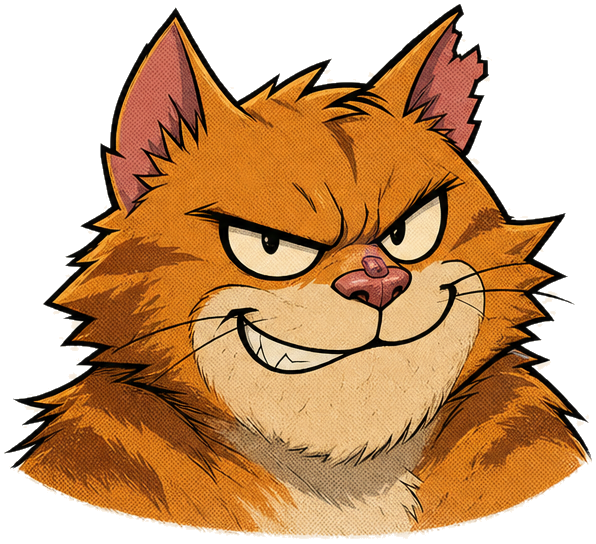
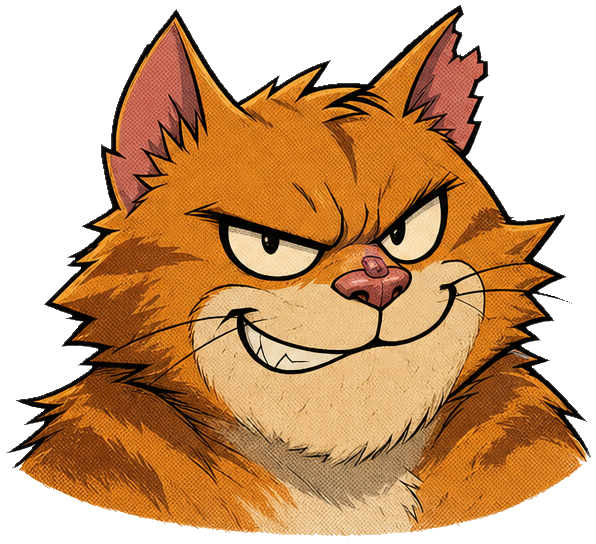
Card busts: remove paper-background fringe along the cut

diff --git a/Tools/import_ui.py b/Tools/import_ui.py
@@ -110,6 +110,23 @@ def items(alpha, merge=18, min_pixels=3000):
     return ordered, labels
 
 
+def defringe(img, passes=6):
+    """Eats the light, unsaturated leftovers of a paper background along the cut edge, then softens the edge."""
+    a = np.array(img).astype(np.int16)
+    rgb, alpha = a[..., :3], a[..., 3]
+    light = (rgb.min(axis=2) > 175) & (rgb.max(axis=2) - rgb.min(axis=2) < 45)
+    for _ in range(passes):
+        clear = alpha < 40
+        edge = ndimage.binary_dilation(clear) & ~clear
+        eat = edge & light
+        if not eat.any():
+            break
+        alpha[eat] = 0
+    alpha = ndimage.grey_erosion(alpha, size=(2, 2))
+    a[..., 3] = alpha
+    return Image.fromarray(a.astype(np.uint8), "RGBA")
+
+
 def neutral(img):
     """Yellow button -> white-ish button that keeps outline, texture and shading; tinted at runtime."""
     a = np.array(img).astype(np.float32)
@@ -193,6 +210,8 @@ def main():
             img = img.crop(img.getchannel("A").point(lambda v: 255 if v > 16 else 0).getbbox())
             pad = Image.new("RGBA", (img.width + 8, img.height + 8), (0, 0, 0, 0))
             pad.paste(img, (4, 4))
+            if name.startswith("bust_"):
+                pad = defringe(pad)
             pad.save(f"{OUT}/{name}.png")
             print(f"   {name}: {pad.width}x{pad.height}")
             if name in MANUAL:
